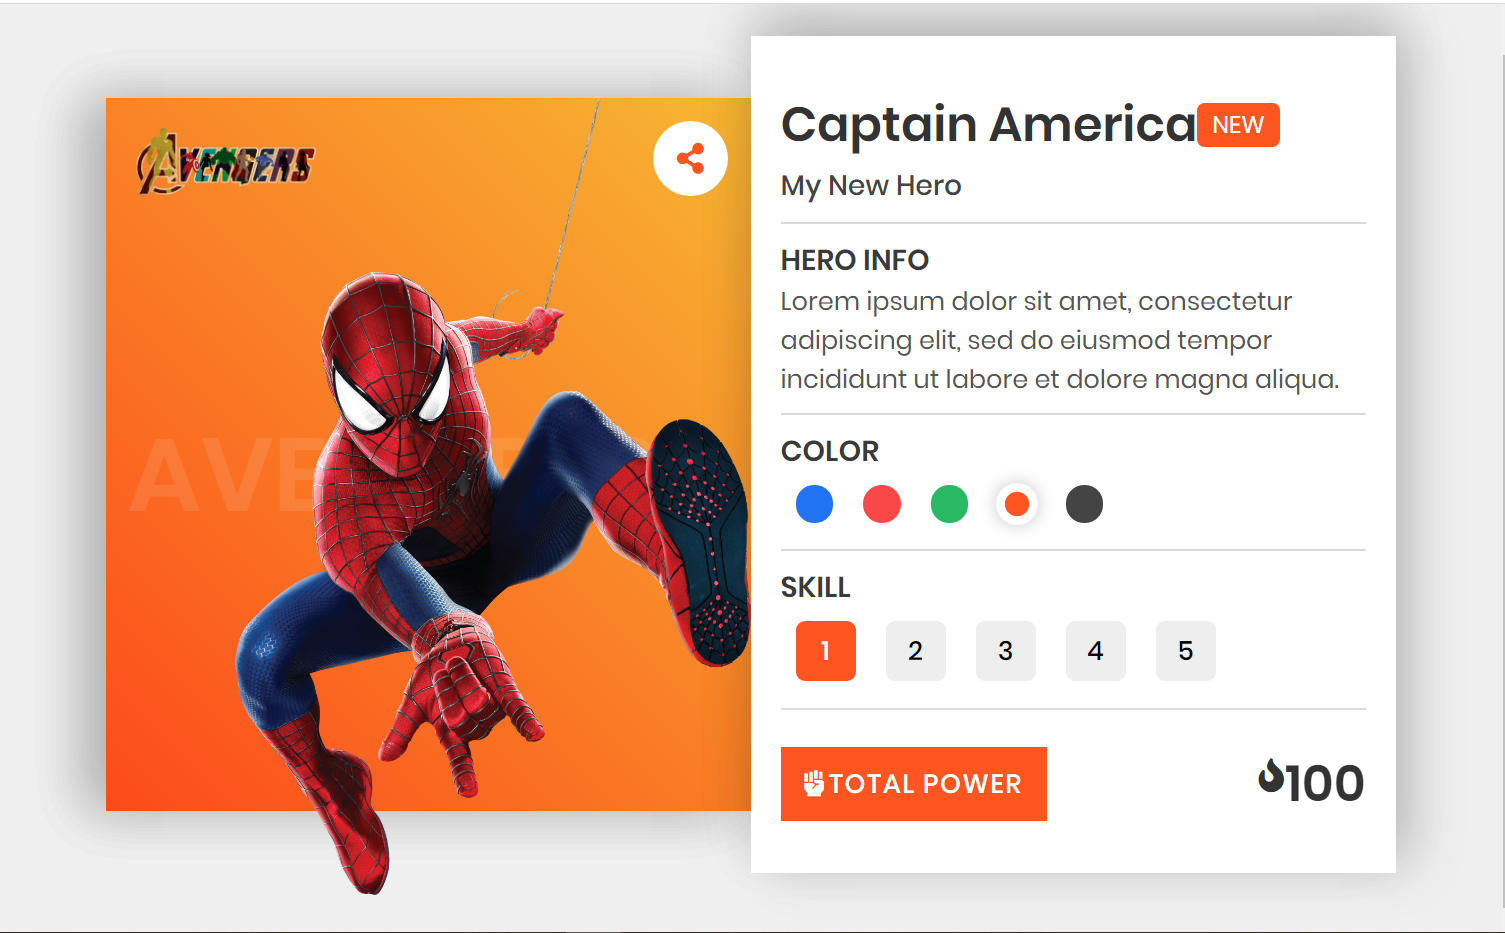
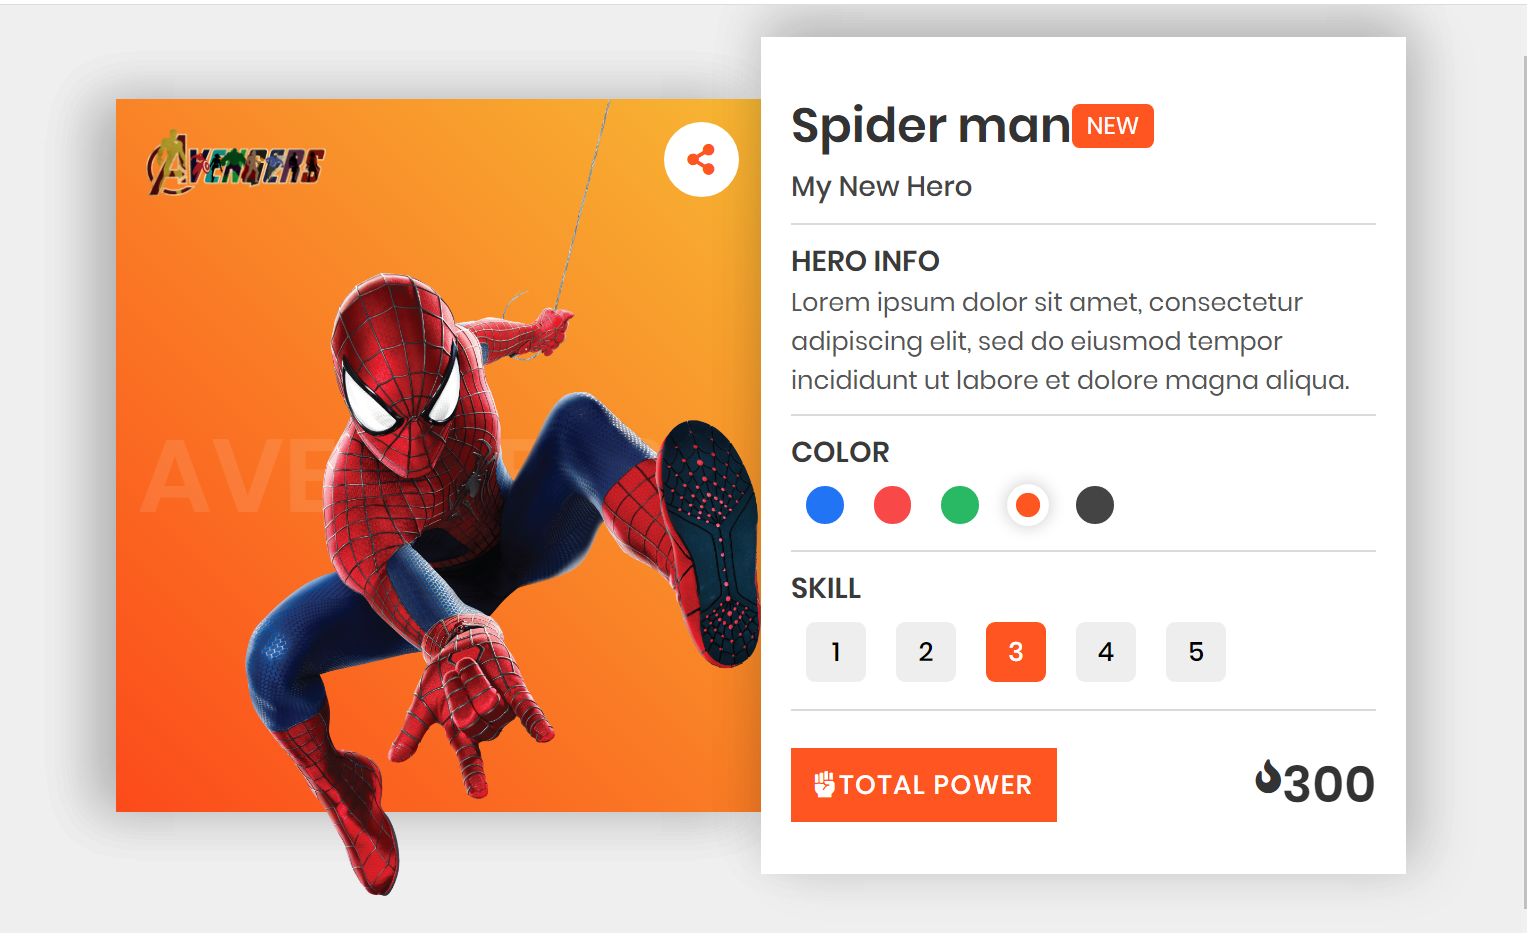
ver 1.1

diff --git a/add.js b/add.js
@@ -33,6 +33,7 @@ function changeColor(){
     let hero = document.querySelector(`.hero[color="${color}"]`);
     let gradient = document.querySelector(`.gradient[color="${color}"]`);
     let prevGradient = document.querySelector(`.gradient[color="${prevColor}"]`);
+    let heroName = document.querySelector('.big');
     
     
     colors.forEach(c => c.classList.remove('active'));
@@ -47,6 +48,20 @@ function changeColor(){
     prevGradient.classList.add('second');
 
     prevColor = color;
+
+    if(color === "blue"){
+        heroName.innerText = "Captain America";
+    } else if(color === "red"){
+        heroName.innerText = "Iron man";
+    } else if(color === "green"){
+        heroName.innerText = "Hulk";
+    } else if(color === "orange"){
+        heroName.innerText = "Spider man";
+    } else if(color === "black"){
+        heroName.innerText = "Thor";
+    }
+
+
     animationEnd = false;
 
     gradient.addEventListener('animationend', () => {
